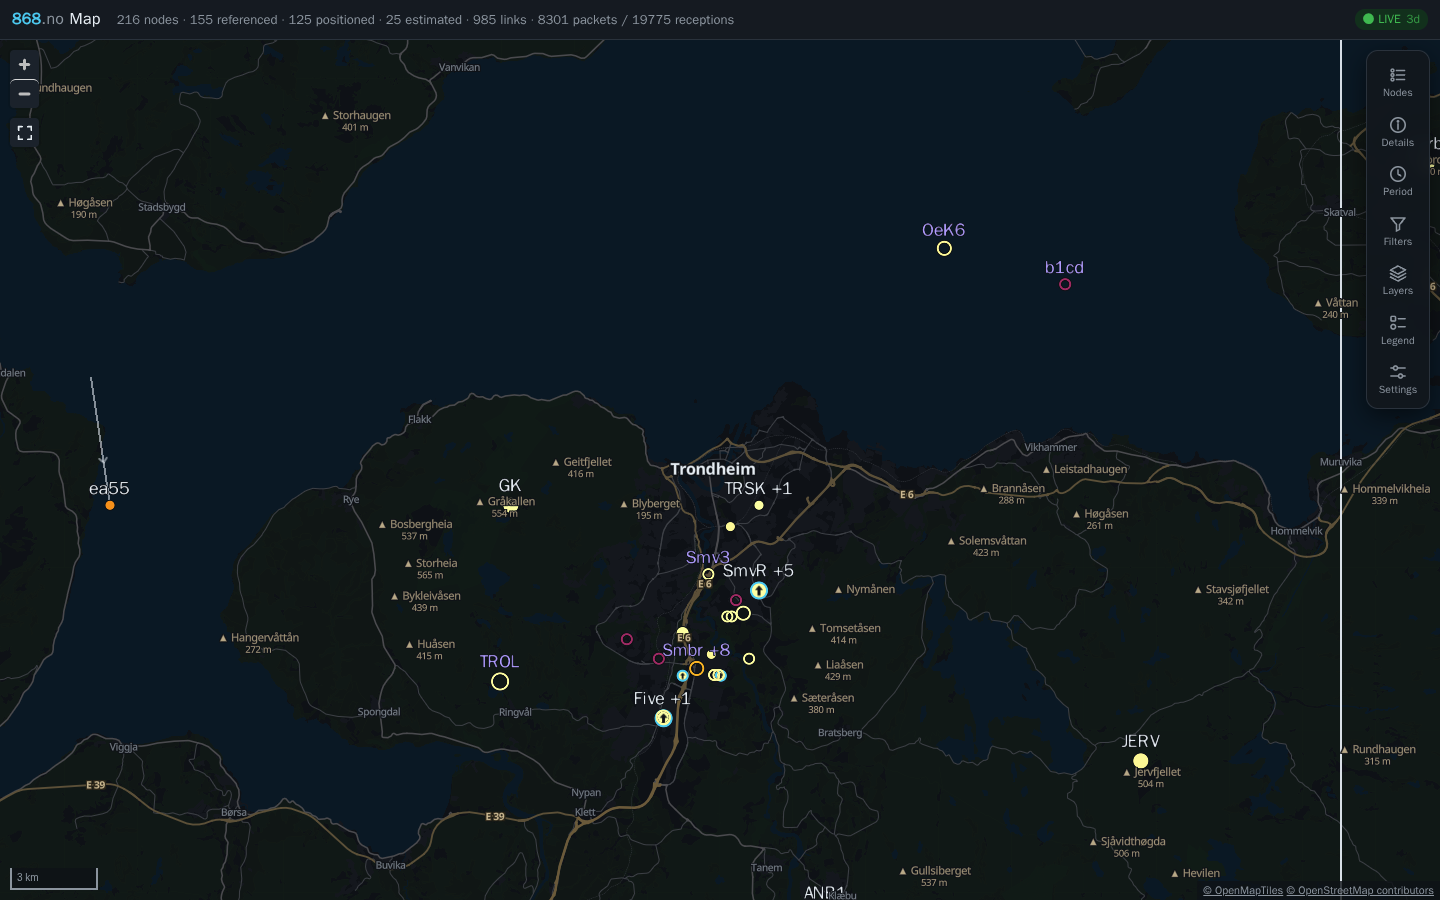
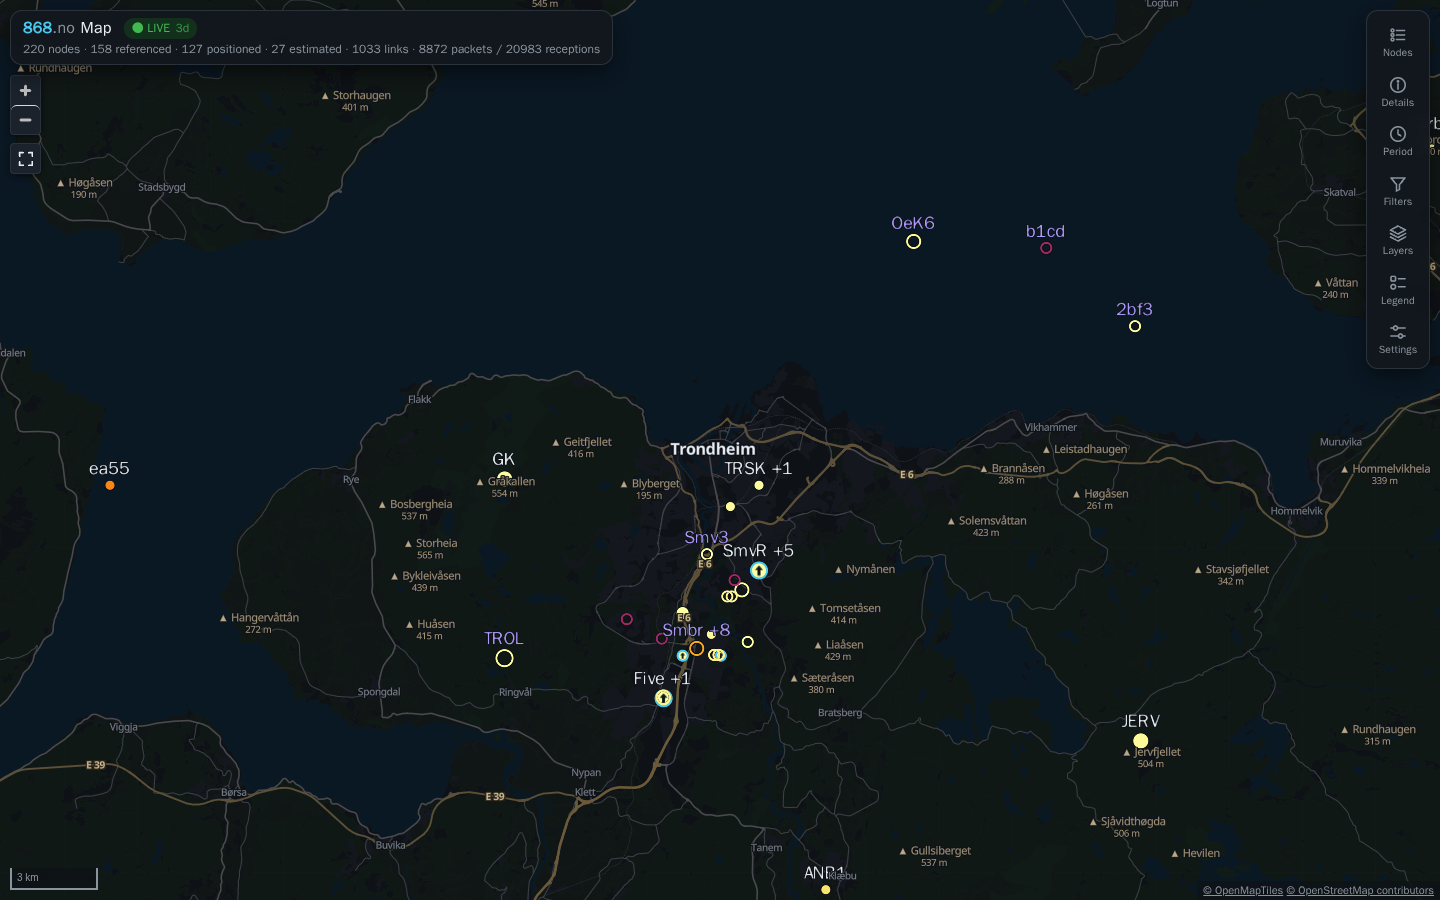
Float the header as an island; keep coordinates and credits in the corner
The wordmark, live indicator and counters become a rounded card at the top
left over an edge-to-edge map, with the map controls, banners and camera
framing kept clear of it. The coordinates and credits no longer move when a
panel opens (D-082).

diff --git a/frontend/src/index.css b/frontend/src/index.css
@@ -80,19 +80,23 @@ button[aria-pressed='true'], button[aria-selected='true'] { background: var(--pr
 .boot.error { color: var(--err); }
 
 /* overflow: hidden clips the collapsed time bar, which is translated below the viewport. */
-.app { position: relative; display: grid; grid-template-rows: auto 1fr; height: 100%; overflow: hidden; --rail: 64px; --dock: 380px; --gap: 10px; --island-r: 12px;
+.app { position: relative; display: grid; grid-template-rows: 1fr; height: 100%; overflow: hidden; --head-h: 52px; --rail: 64px; --dock: 380px; --gap: 10px; --island-r: 12px;
   /* Elevation, the only drop shadows (D-081): islands (the rail, the panel)
      and small floating elements (banners, tooltips, map controls). Labels
      lying on the map (scale, coordinates, credits) stay flat. */
   --elev-island: 0 8px 24px var(--shadow); --elev-float: 0 2px 8px var(--shadow); }
-.topbar { position: relative; z-index: 10; display: flex; align-items: center; gap: 16px; padding: 6px 12px; border-bottom: 1px solid var(--line); background: var(--panel); min-height: 40px; }
+.topbar { position: absolute; top: var(--gap); left: var(--gap); z-index: 10; display: flex; flex-direction: column; gap: 2px; padding: 7px 12px;
+  max-width: calc(100% - var(--rail) - 4 * var(--gap)); box-sizing: border-box;
+  border: 1px solid var(--line); border-radius: var(--island-r); background: var(--overlay-strong); backdrop-filter: blur(8px); box-shadow: var(--elev-island); }
+.main:not(.panel-closed) .topbar { max-width: calc(100% - var(--rail) - var(--dock) - 5 * var(--gap)); }
+.topbar-row { display: flex; align-items: center; gap: 12px; }
 .topbar h1 { font-size: 16px; margin: 0; letter-spacing: 0.02em; white-space: nowrap; }
 /* Wordmark: the band (868 MHz) in the accent colour, the domain muted. */
 .brand { font-weight: 600; }
 .brand-num { color: var(--accent); font-weight: 800; letter-spacing: 0.01em; font-variant-numeric: tabular-nums; }
 .brand-tld { color: var(--muted); font-weight: 600; }
 .brand-map { font-weight: 600; }
-.counters { color: var(--muted); font-size: 13px; }
+.counters { color: var(--muted); font-size: 12px; line-height: 1.35; }
 .spinner { width: 12px; height: 12px; border: 2px solid var(--line); border-top-color: var(--accent); border-radius: 50%; animation: spin 0.8s linear infinite; }
 @keyframes spin { to { transform: rotate(360deg); } }
 
@@ -106,8 +110,8 @@ button[aria-pressed='true'], button[aria-selected='true'] { background: var(--pr
 .rail-btn[aria-pressed='true'] { color: var(--accent); background: var(--pressed); border-color: var(--line); }
 .rail-label { font-size: 10.5px; line-height: 1; letter-spacing: 0.01em; }
 .rail-badge { position: absolute; top: 3px; right: 6px; min-width: 15px; height: 15px; padding: 0 4px; border-radius: 8px; background: var(--accent); color: var(--bg); font-size: 10px; font-weight: 700; line-height: 15px; text-align: center; }
-/* The open panel overlays the map beside the rail (no resize); map controls
-   on the right move clear of it. */
+/* The open panel overlays the map beside the rail (no resize). The
+   coordinates and credits stay in the bottom-right corner, beneath it if need be (D-082). */
 .dock { position: absolute; top: var(--gap); right: calc(var(--rail) + 2 * var(--gap)); max-height: calc(100% - 2 * var(--gap)); width: var(--dock); z-index: 7; overflow: hidden;
   border: 1px solid var(--line); border-radius: var(--island-r); background: var(--overlay-strong); backdrop-filter: blur(8px); box-shadow: var(--elev-island); display: flex; flex-direction: column; min-height: 0; }
 .dock[hidden] { display: none; }
@@ -115,8 +119,6 @@ button[aria-pressed='true'], button[aria-selected='true'] { background: var(--pr
 .dock-head h2 { flex: 1; margin: 0; font-size: 13px; text-transform: uppercase; letter-spacing: 0.07em; color: var(--muted); }
 .dock-head .close { position: static; }
 .dock-body { overflow: auto; min-height: 0; flex: 1 1 auto; } /* the island fits its content, scrolling past the bottom */
-.main:not(.panel-closed) .coords { right: calc(var(--rail) + var(--dock) + 4 * var(--gap)); }
-.main:not(.panel-closed) .attribution { right: calc(var(--rail) + var(--dock) + 3 * var(--gap)); }
 .filter-head { margin-top: 0; }
 .segmented { display: flex; border: 1px solid var(--line); border-radius: 6px; overflow: hidden; }
 .segmented label { position: relative; flex: 1; margin: 0; text-align: center; cursor: pointer; }
@@ -132,14 +134,14 @@ button[aria-pressed='true'], button[aria-selected='true'] { background: var(--pr
 .map-wrap { position: relative; min-height: 0; }
 .map { position: absolute; inset: 0; }
 /* Sits under MapLibre's zoom buttons (top-left), styled as one of them. */
-.fit-ctrl { position: absolute; top: 78px; left: 10px; margin: 0 !important; z-index: 2; }
+.fit-ctrl { position: absolute; top: calc(var(--head-h) + 2 * var(--gap) + 68px); left: 10px; margin: 0 !important; z-index: 2; }
 .fit-ctrl button { display: grid; place-items: center; color: var(--text); border: none; border-radius: 4px; padding: 0; width: 29px; height: 29px; background: transparent; }
 .fit-ctrl button:disabled { opacity: 0.35; }
 .attribution { position: absolute; right: 0; bottom: 0; font-size: 11px; background: var(--overlay); padding: 2px 6px; color: var(--muted); }
 .attribution a { color: var(--muted); }
 .coords { position: absolute; bottom: 28px; right: 10px; font: 12px ui-monospace, monospace; color: var(--muted); background: var(--overlay); padding: 2px 6px; border-radius: 4px; }
 .tooltip { position: absolute; pointer-events: none; background: var(--tooltip); border: 1px solid var(--line); box-shadow: var(--elev-float); padding: 4px 8px; border-radius: 4px; font-size: 12px; max-width: 320px; z-index: 5; }
-.banners { position: absolute; left: 50px; top: 10px; right: calc(var(--rail) + 3 * var(--gap)); display: flex; flex-direction: column; gap: 6px; pointer-events: none; }
+.banners { position: absolute; left: 50px; top: calc(var(--head-h) + 2 * var(--gap)); right: calc(var(--rail) + 3 * var(--gap)); display: flex; flex-direction: column; gap: 6px; pointer-events: none; }
 .banner { pointer-events: auto; align-self: flex-start; background: var(--overlay-strong); border: 1px solid var(--line); border-left: 3px solid var(--accent); box-shadow: var(--elev-float); padding: 6px 10px; border-radius: 4px; font-size: 13px; }
 .banner.error { border-left-color: var(--err); }
 .banner.hist { border-left-color: var(--orange); }
@@ -224,7 +226,7 @@ table.hear th, table.hear td { text-align: left; padding: 2px 4px; border-bottom
 .sig-unsigned, .sig-not-applicable { color: var(--muted); }
 
 /* Header, top right: live, paused or historical (D-067); opens the Period panel. */
-.live-indicator { margin-left: auto; display: flex; gap: 6px; align-items: center; }
+.live-indicator { display: flex; gap: 6px; align-items: center; }
 .live-indicator .badge { border: 0; cursor: pointer; }
 .live-indicator .badge:hover { filter: brightness(1.15); }
 .badge-span { opacity: 0.75; font-weight: 500; margin-left: 2px; }
@@ -260,8 +262,6 @@ table.hear th, table.hear td { text-align: left; padding: 2px 4px; border-bottom
   /* Bottom sheet over the map. */
   .app { --gap: 8px; }
   .dock { top: auto; bottom: var(--gap); left: var(--gap); width: auto; max-height: 50vh; }
-  .main:not(.panel-closed) .coords { right: 10px; bottom: calc(50vh + 2 * var(--gap) + 28px); }
-  .main:not(.panel-closed) .attribution { right: 0; bottom: calc(50vh + 2 * var(--gap)); }
   .banners, .main:not(.panel-closed) .banners { right: calc(var(--rail) + 3 * var(--gap)); left: 10px; }
   .counters { display: none; }
 }
@@ -291,3 +291,6 @@ table.hear th, table.hear td { text-align: left; padding: 2px 4px; border-bottom
 button.danger { border-color: var(--err); color: var(--err); }
 button.danger:hover { background: var(--err); color: var(--bg); }
 .refined { margin-top: 4px; color: var(--accent); }
+/* MapLibre's top-left controls (zoom) sit below the floating header (D-082). */
+.maplibregl-ctrl-top-left { top: calc(var(--head-h) + var(--gap)); }
+

diff --git a/frontend/src/App.tsx b/frontend/src/App.tsx
@@ -37,6 +37,18 @@ export default function App() {
     if (caps.data) initDerive(caps.data)
   }, [caps.data])
 
+  // The floating header's height, for the map controls and banners below it.
+  const topbar = useRef<HTMLElement>(null)
+  useEffect(() => {
+    const el = topbar.current
+    if (!el) return
+    const set = () => (el.closest('.app') as HTMLElement | null)?.style.setProperty('--head-h', `${el.offsetHeight}px`)
+    set()
+    const ro = new ResizeObserver(set)
+    ro.observe(el)
+    return () => ro.disconnect()
+  }, [caps.data]) // the header exists once the app has loaded
+
   // URL <-> state (shareable links; back/forward).
   useEffect(() => {
     const init = fromQuery(new URLSearchParams(window.location.search))
@@ -118,19 +130,22 @@ export default function App() {
 
   return (
     <div className="app">
-      <header className="topbar">
-        <h1 className="brand" aria-label="868.no Map">
-          <span className="brand-num">868</span><span className="brand-tld">.no</span> <span className="brand-map">Map</span>
-        </h1>
-        {counts && (
-          <span className="counters" aria-live="polite">
-            {counts.nodes} nodes · {counts.referenced} referenced · {counts.positioned} positioned · {counts.estimated} estimated · {counts.edges} links · {counts.packets} packets / {counts.receptions} receptions
-          </span>
-        )}
-        {snap.isFetching && <span className="spinner" aria-label="Updating" />}
-        <LiveIndicator caps={caps.data} retention={retention.data} snapshot={snap.data} liveOK={liveOK} onOpen={() => togglePanel('period')} />
-      </header>
       <main className={`main${panel ? '' : ' panel-closed'}`}>
+        {/* The header floats over the map as an island too (D-082). */}
+        <header id="topbar" className="topbar" ref={topbar}>
+          <div className="topbar-row">
+            <h1 className="brand" aria-label="868.no Map">
+              <span className="brand-num">868</span><span className="brand-tld">.no</span> <span className="brand-map">Map</span>
+            </h1>
+            <LiveIndicator caps={caps.data} retention={retention.data} snapshot={snap.data} liveOK={liveOK} onOpen={() => togglePanel('period')} />
+            {snap.isFetching && <span className="spinner" aria-label="Updating" />}
+          </div>
+          {counts && (
+            <span className="counters" aria-live="polite">
+              {counts.nodes} nodes · {counts.referenced} referenced · {counts.positioned} positioned · {counts.estimated} estimated · {counts.edges} links · {counts.packets} packets / {counts.receptions} receptions
+            </span>
+          )}
+        </header>
         <MapView caps={caps.data} snapshot={snap.data} onPositions={onPositions} />
         <Dock open={panel} onClose={closePanel}>
           {panel === 'nodes' && <NodeList snapshot={snap.data} />}

diff --git a/frontend/src/map/camera.ts b/frontend/src/map/camera.ts
@@ -6,13 +6,15 @@ import type { Selection } from '../state/store'
 
 type LngLat = [number, number]
 
-/** Pixels of the map covered by the open panel (right edge, or bottom sheet). */
-function covered(container: HTMLElement | null): { right: number; bottom: number } {
+/** Pixels of the map covered by the floating header (top) and the open panel (right edge, or bottom sheet). */
+function covered(container: HTMLElement | null): { top: number; right: number; bottom: number } {
+  const head = document.getElementById('topbar')
+  const top = head && container ? Math.max(0, head.getBoundingClientRect().bottom - container.getBoundingClientRect().top) : 0
   const panel = document.getElementById('dock')
-  if (!panel || panel.hidden || !container) return { right: 0, bottom: 0 }
+  if (!panel || panel.hidden || !container) return { top, right: 0, bottom: 0 }
   const a = container.getBoundingClientRect(), b = panel.getBoundingClientRect()
   // The side panel is narrow; the phone's bottom card spans most of the width.
-  return b.width < a.width * 0.6 ? { right: Math.max(0, a.right - b.left), bottom: 0 } : { right: 0, bottom: Math.max(0, a.bottom - b.top) }
+  return b.width < a.width * 0.6 ? { top, right: Math.max(0, a.right - b.left), bottom: 0 } : { top, right: 0, bottom: Math.max(0, a.bottom - b.top) }
 }
 
 export function useCamera(
@@ -27,7 +29,7 @@ export function useCamera(
       const b = new maplibregl.LngLatBounds()
       pos.forEach((p) => b.extend(p))
       const c = covered(container.current)
-      map.fitBounds(b, { padding: { top: 60, left: 60, right: 60 + c.right, bottom: 60 + c.bottom }, maxZoom: 12, duration })
+      map.fitBounds(b, { padding: { top: 30 + c.top, left: 60, right: 60 + c.right, bottom: 60 + c.bottom }, maxZoom: 12, duration })
     },
     [mapRef, container, pos],
   )
@@ -50,7 +52,7 @@ export function useCamera(
     requestAnimationFrame(() => {
       if (flownTo.current !== id) return
       const c = covered(container.current)
-      mapRef.current?.easeTo({ center: p, zoom: Math.max(mapRef.current.getZoom(), 10), duration: 600, offset: [-c.right / 2, -c.bottom / 2] })
+      mapRef.current?.easeTo({ center: p, zoom: Math.max(mapRef.current.getZoom(), 10), duration: 600, offset: [-c.right / 2, (c.top - c.bottom) / 2] })
     })
   }, [selection, pos, mapRef, container])
 
@@ -67,7 +69,7 @@ export function useCamera(
     const b = new maplibregl.LngLatBounds()
     route.points.forEach((p) => b.extend(p))
     const c = covered(container.current)
-    map.fitBounds(b, { padding: { top: 80, left: 80, right: 80 + c.right, bottom: 80 + c.bottom }, maxZoom: 13, duration: 600 })
+    map.fitBounds(b, { padding: { top: 40 + c.top, left: 80, right: 80 + c.right, bottom: 80 + c.bottom }, maxZoom: 13, duration: 600 })
   }, [route, mapRef, container])
 
   return { fit }

diff --git a/frontend/src/map/MapView.tsx b/frontend/src/map/MapView.tsx
@@ -36,7 +36,9 @@ export function startLon(width: number, zoom: number): number {
 /** Room around the country; on the right, for the floating tool rail. */
 const startPadding = (width = window.innerWidth) => {
   const narrow = width <= 560
-  return { top: 16, bottom: 16, left: 16, right: narrow ? 64 : 92 }
+  // Below the floating header (D-082).
+  const head = document.getElementById('topbar')?.offsetHeight ?? 50
+  return { top: head + 24, bottom: 16, left: 16, right: narrow ? 64 : 92 }
 }
 
 

diff --git a/docs/decisions.md b/docs/decisions.md
@@ -629,3 +629,10 @@ Operator request: a way to share a permanent link to a node.
 
 Operator request: apply drop shadows consistently. Only the rail and panel islands had one; banners and hover tooltips had none, and the map's zoom and fit controls kept MapLibre's thin grey outline. Two elevation tokens are now the only drop shadows: `--elev-island` (the rail and the panel) and `--elev-float` (banners, tooltips, map control groups, which also get the islands' border colour). Labels lying on the map (scale, coordinates, credits) stay flat. Both use the theme's `--shadow` colour, stronger on the dark basemap.
 
+## D-082 The header as an island; corner labels stay put (2026-11-01)
+
+Operator requests: make the header a floating island too; and stop the coordinates and map credits moving when a tool panel opens.
+- **Header island:** the wordmark, the live indicator (and the updating spinner) on one line and the counters below, in a rounded card at the top left with the islands' border, blur and shadow (D-071, D-081). The map runs to the top edge. The card leaves room for the rail, and for the panel when one is open; on phones the counters are hidden as before.
+- **Below it:** MapLibre's zoom buttons, the fit control and the banners sit under the card. Its height is measured and published as `--head-h`. Fitting to data, flying to a node, framing a packet route and the start view on Norway (D-074) keep content clear of it as they do of the panel.
+- **Corner labels:** the coordinates readout and the map credits stay in the bottom-right corner whatever opens. A panel may cover them partly, by the operator's choice.
+
